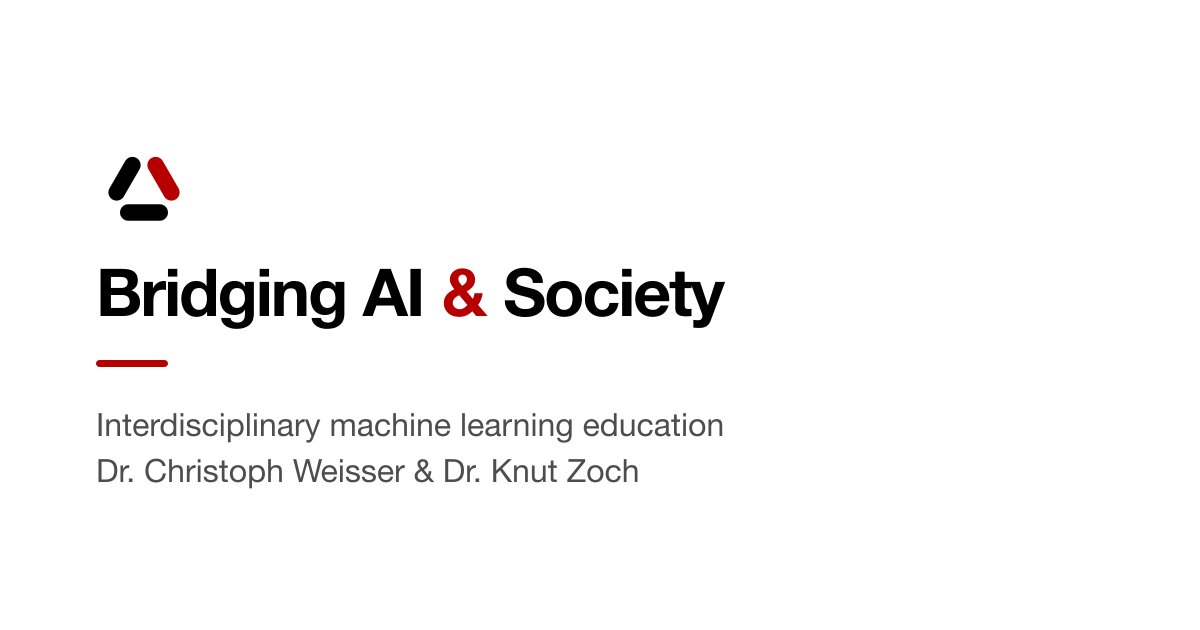
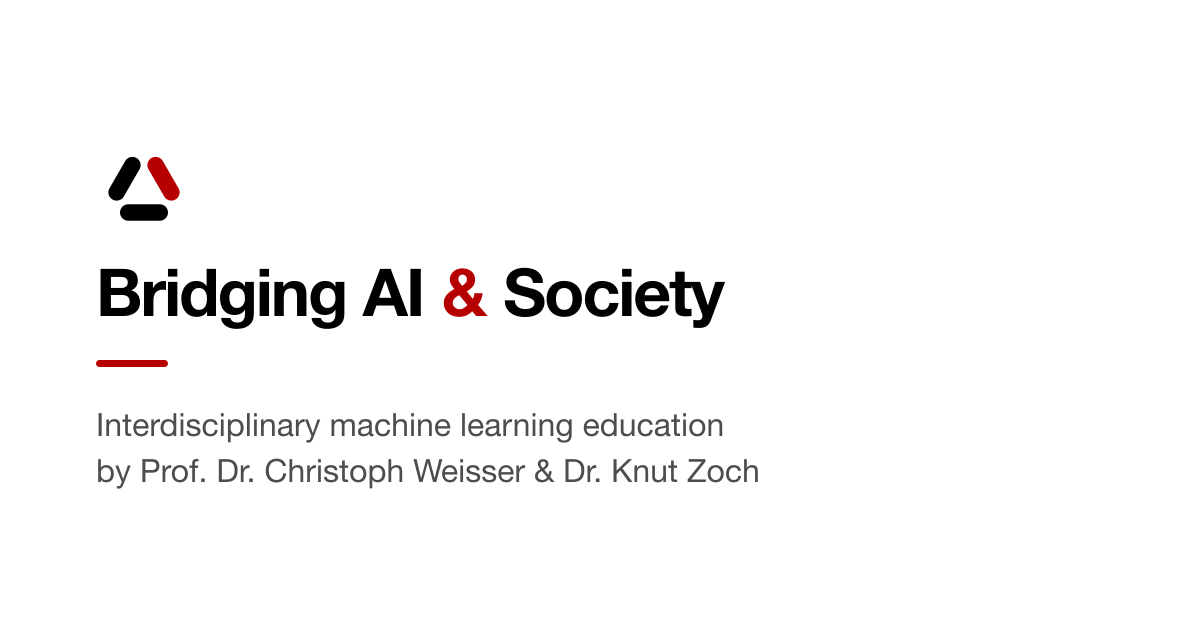
Consistent title usage everywhere

Changed region(s): [[0.0617, 0.7238, 0.6475, 0.7841]]

diff --git a/_includes/schema.html b/_includes/schema.html
@@ -5,7 +5,7 @@
   "name": "Bridging AI & Society",
   "url": "https://bridgingaiandsociety.org",
   "logo": "https://bridgingaiandsociety.org/assets/favicon/web-app-icon-512x512.png",
-  "description": "Interdisciplinary machine learning education by Dr. Christoph Weisser and Dr. Knut Zoch. Hands-on workshops and summer schools combining technical foundations with societal impact.",
+  "description": "Interdisciplinary machine learning education by Prof. Dr. Christoph Weisser and Dr. Knut Zoch. Hands-on workshops and summer schools combining technical foundations with societal impact.",
   "email": "info@bridgingaiandsociety.org",
   "contactPoint": {
     "@type": "ContactPoint",

diff --git a/tools/build-brand-assets.py b/tools/build-brand-assets.py
@@ -69,7 +69,7 @@ def og_svg():
         letter-spacing="-2">Bridging AI <tspan fill="{ACCENT}">&amp;</tspan> Society</text>
   <rect x="96" y="360" width="72" height="7" rx="3.5" fill="{ACCENT}"/>
   <text x="96" y="436" font-size="32" fill="{MUTED}">Interdisciplinary machine learning education</text>
-  <text x="96" y="482" font-size="32" fill="{MUTED}">Dr. Christoph Weisser &amp; Dr. Knut Zoch</text>
+  <text x="96" y="482" font-size="32" fill="{MUTED}">by Prof. Dr. Christoph Weisser &amp; Dr. Knut Zoch</text>
 </svg>'''
 
 

diff --git a/_pages/about.md b/_pages/about.md
@@ -1,6 +1,6 @@
 ---
 title: "About Our Team & Mission"
-description: "Learn about the team behind Bridging AI & Society. Dr. Christoph Weisser and Dr. Knut Zoch lead interdisciplinary AI and machine learning education."
+description: "Learn about the team behind Bridging AI & Society. Prof. Dr. Christoph Weisser and Dr. Knut Zoch lead interdisciplinary AI and machine learning education."
 permalink: /about/
 ---
 
@@ -35,7 +35,7 @@ We adapt our courses to different academic settings and goals. Depending on the 
 <div class="author-card">
   <div class="author-card-header">
     <div class="author-card-avatar">
-      <img src="{{ '/assets/img/headshot-christoph.jpg' | relative_url }}" alt="Dr. Christoph Weisser" loading="lazy">
+      <img src="{{ '/assets/img/headshot-christoph.jpg' | relative_url }}" alt="Prof. Dr. Christoph Weisser" loading="lazy">
     </div>
     <div>
       <h3>Prof. Dr. Christoph Weisser</h3>

diff --git a/_pages/index.md b/_pages/index.md
@@ -18,7 +18,7 @@ header:
 
 <p class="bas-hero-tagline">{{ site.subtitle }}</p>
 
-We are **Dr. Christoph Weisser** and **Dr. Knut Zoch**, two educators with backgrounds in applied statistics and experimental physics. Together, we design and teach interdisciplinary courses and workshops that explore both the **technical foundations** of machine learning and the **societal questions** raised by artificial intelligence.
+We are **Prof. Dr. Christoph Weisser** and **Dr. Knut Zoch**, two educators with backgrounds in applied statistics and experimental physics. Together, we design and teach interdisciplinary courses and workshops that explore both the **technical foundations** of machine learning and the **societal questions** raised by artificial intelligence.
 
 Our formats are interactive, adaptable, and discussion-driven — ranging from short workshops to multi-day academies.
 
